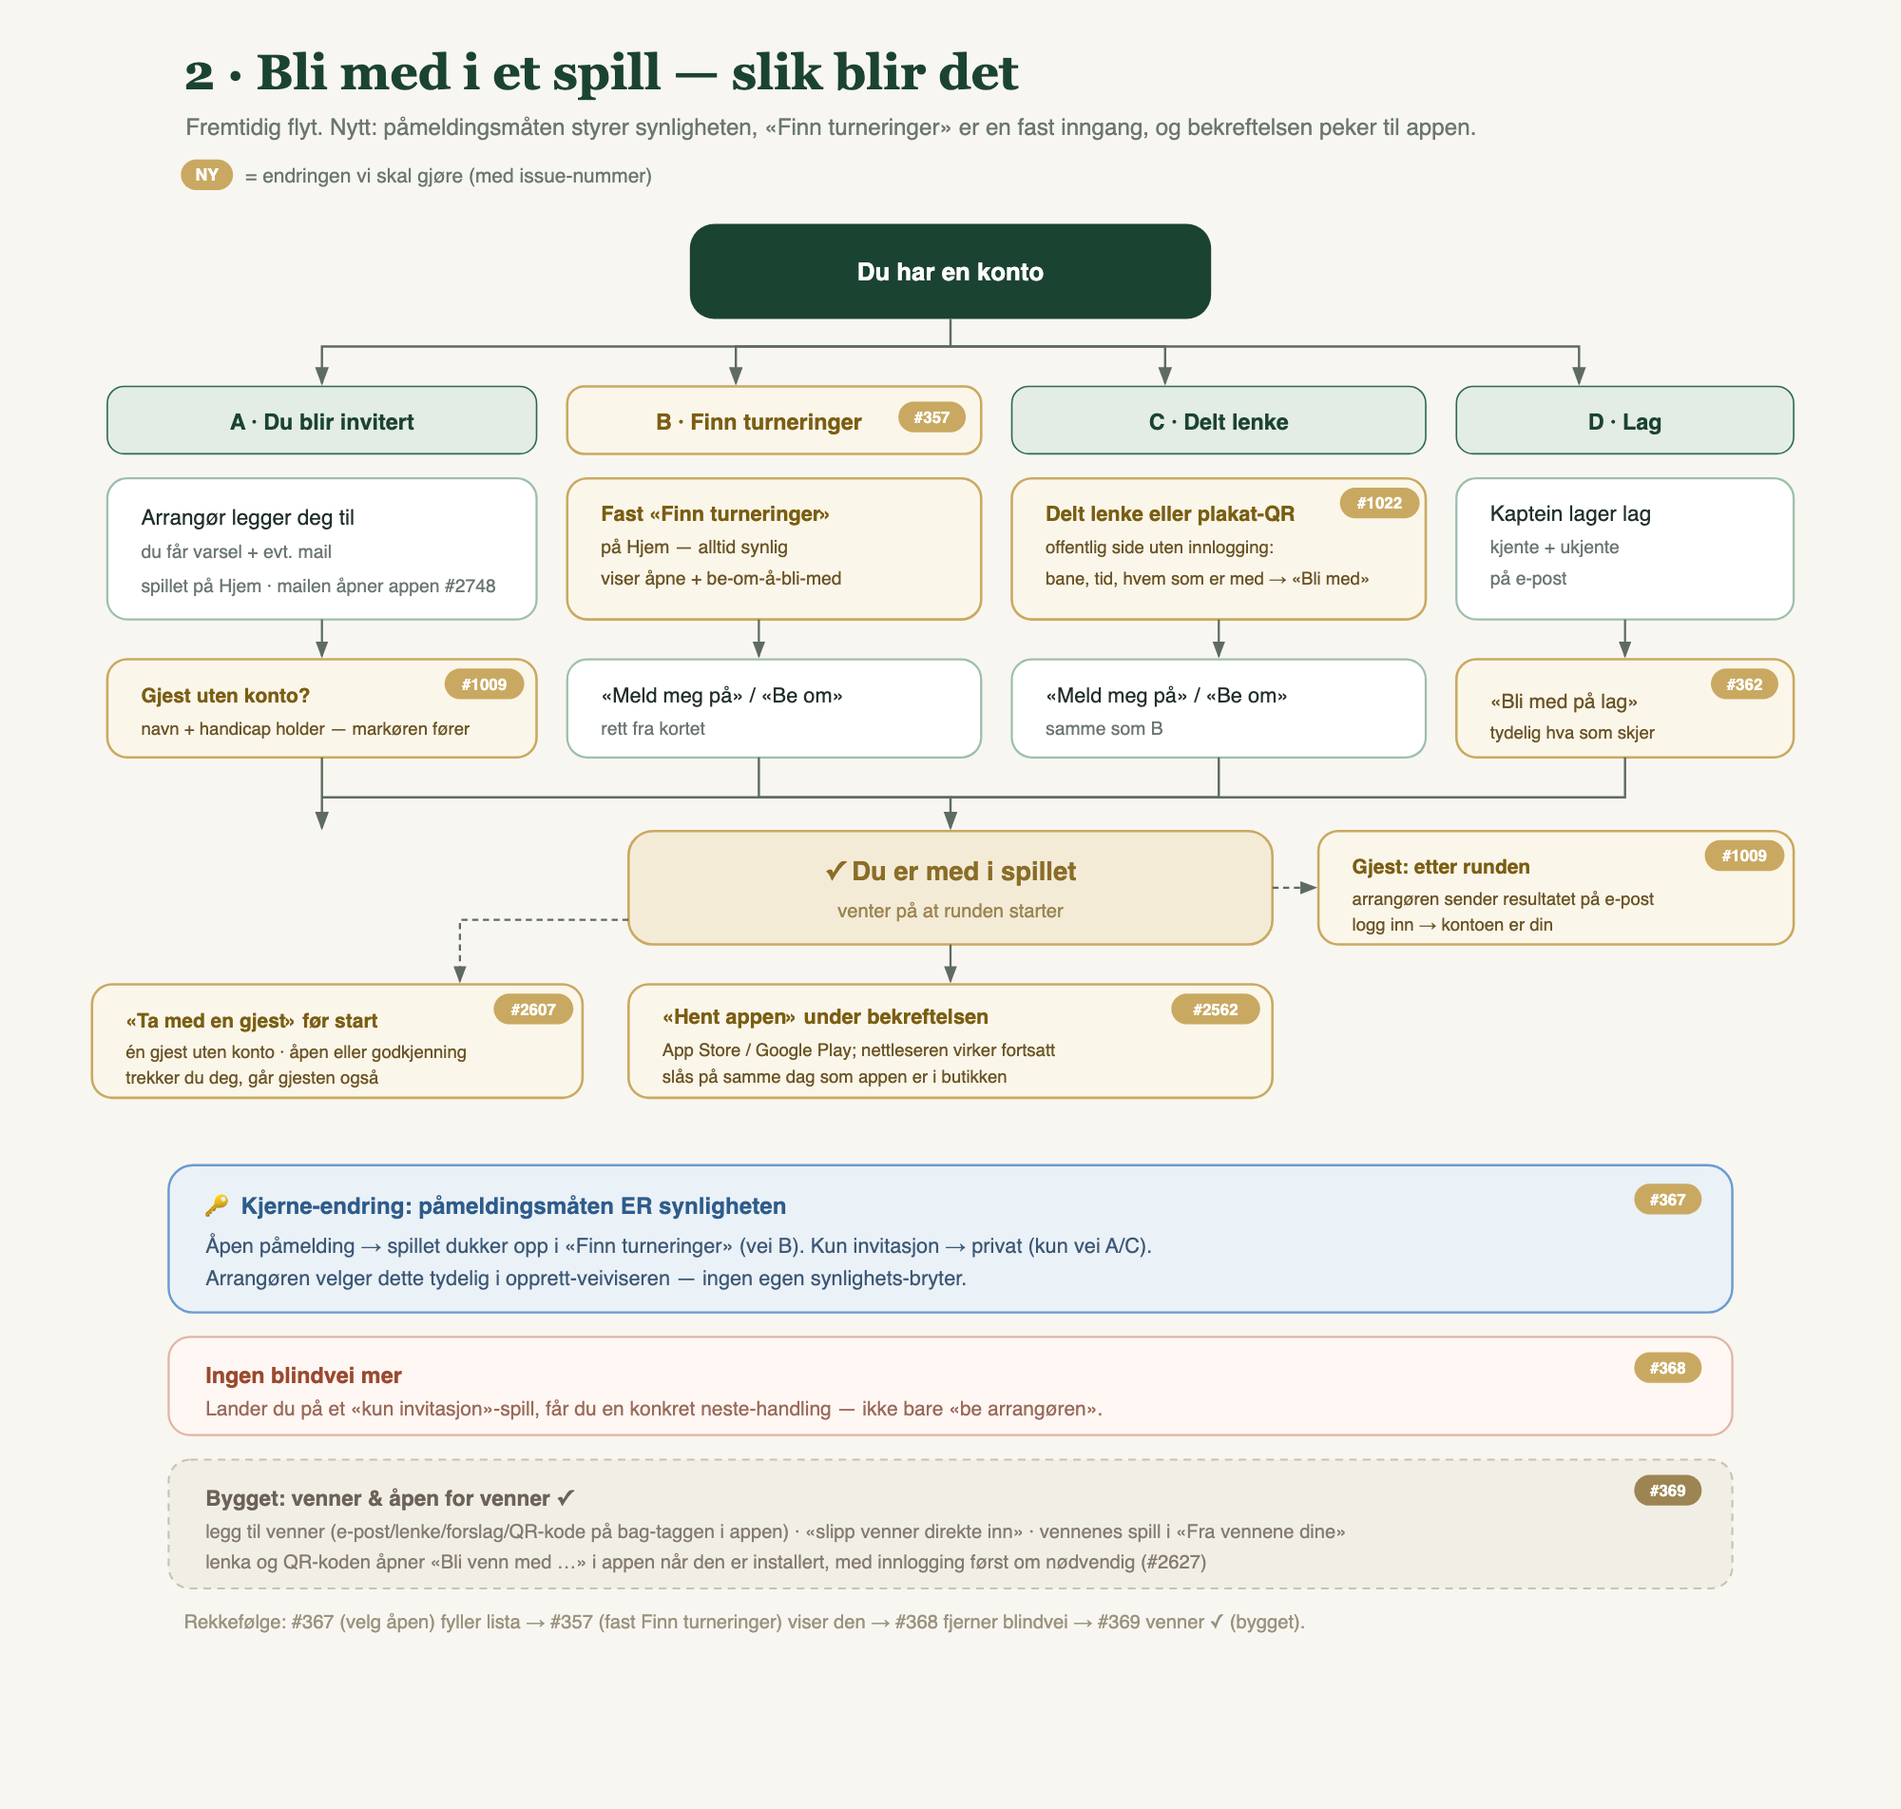
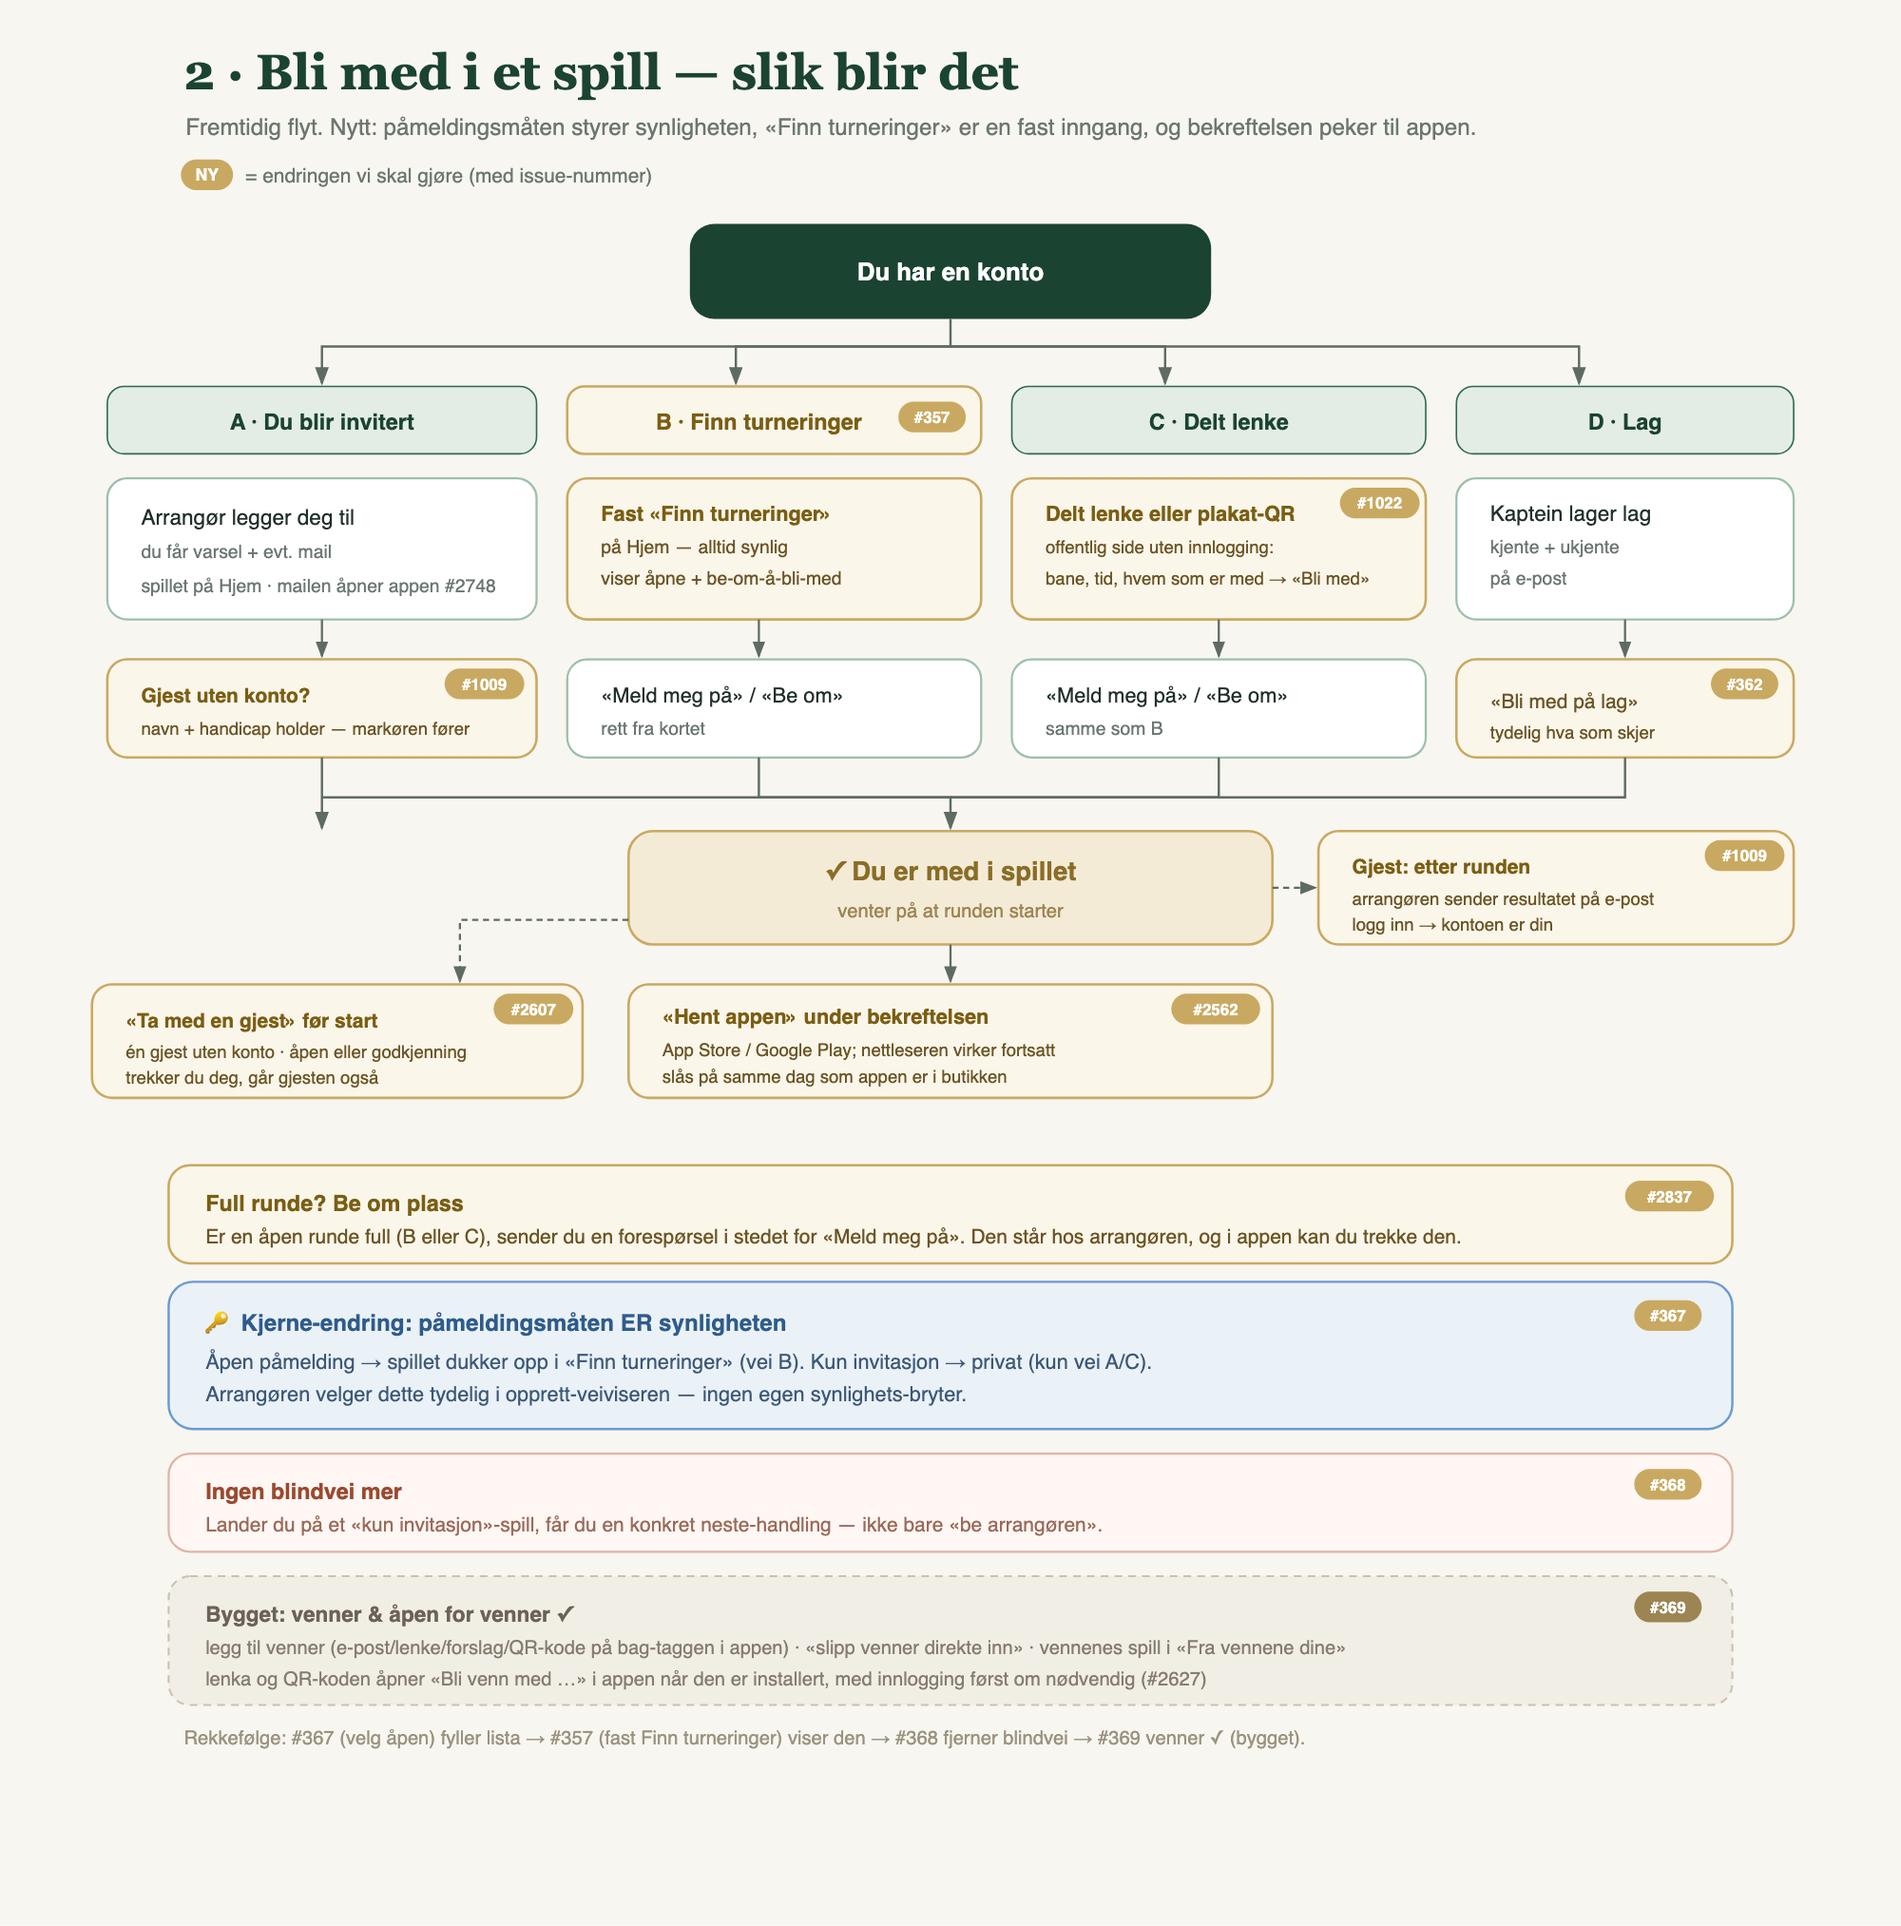
docs(flows): a full open round asks for a seat
user-flows P2 gets the full branch (solo_open_full), and the future
diagram for flow 2 gets the #2837 band: the request instead of «Meld meg
på», and withdrawing it in the app.

Refs #2837

Changed region(s): [[0.062, 0.031, 0.961, 0.9301]]

diff --git a/docs/user-flows.md b/docs/user-flows.md
@@ -211,11 +211,15 @@ flowchart LR
 ```mermaid
 flowchart TD
   S["/signup/[shortId]"] --> M{registration_mode}
-  M -- open --> O["«Meld meg på» → game_players<br/>→ /games/[id]"]
+  M -- open --> F{full?}
+  F -- nei --> O["«Meld meg på» → game_players<br/>→ /games/[id]"]
+  F -- ja --> R
   M -- manual_approval --> R["«Be om å bli med» + melding<br/>→ game_registration_requests (pending)<br/>→ varsel til arrangøren"]
   M -- invite_only --> I["«Krever invitasjon»<br/>→ /innboks hvis ventende"]
   S -. "registration_type = team" .-> T["/signup/[shortId]/team<br/>lag-påmelding"]
 ```
+
+**Full runde (#2837):** har formatet et tak (fast antall spillere, eller lagformatets rutenett) og alle plassene er tatt, viser en åpen runde forespørselsskjemaet med banneret «Runden er full» i stedet for «Meld meg på». Tellingen er den samme som plassen tas med (`getRegistrationSeats`, terminlistas «Fullt»), og regelen står i `signupOffer` (`solo_open_full`), så nettsiden og appen sier det samme. Matchplay har fortsatt sidevelgeren. Forespørselen går til arrangøren som en vanlig forespørsel. Stengt påmelding slår full runde: da sendes ingen ny forespørsel, men de som alt står, kan godkjennes. En forespørsel som er trukket, kan sendes på nytt og havner da bakerst i køen.
 
 Lag-flyt (`/signup/[shortId]/team`): kaptein navngir lag + fyller medspiller-slots (kjent bruker oppslag eller ukjent e-post). Kjente → in-app-varsel + auto-`game_players`. Ukjente → Resend-invitasjon (`lib/mail/teamInvitation.ts`) → OTP → profil → «Bli med på lag».
 
